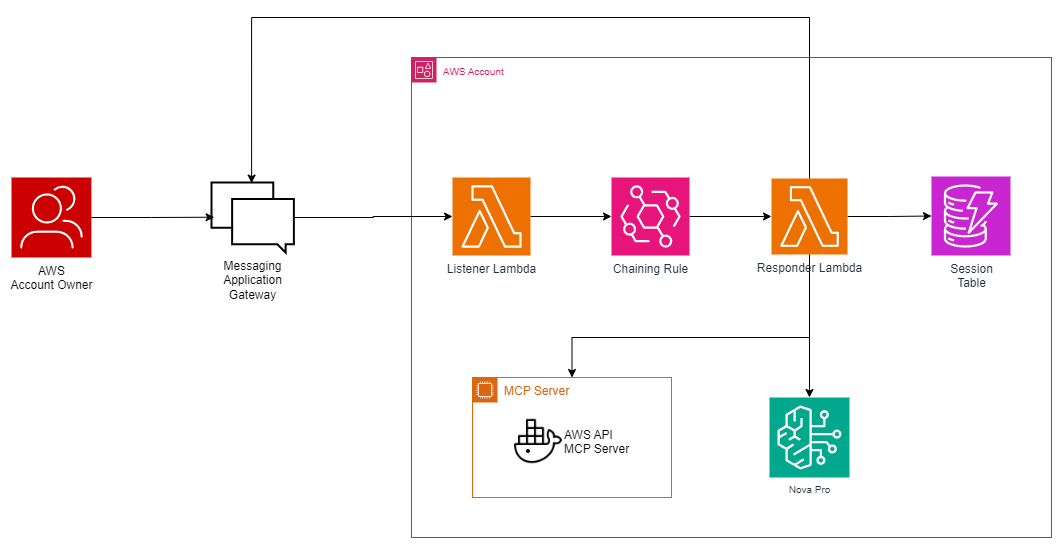
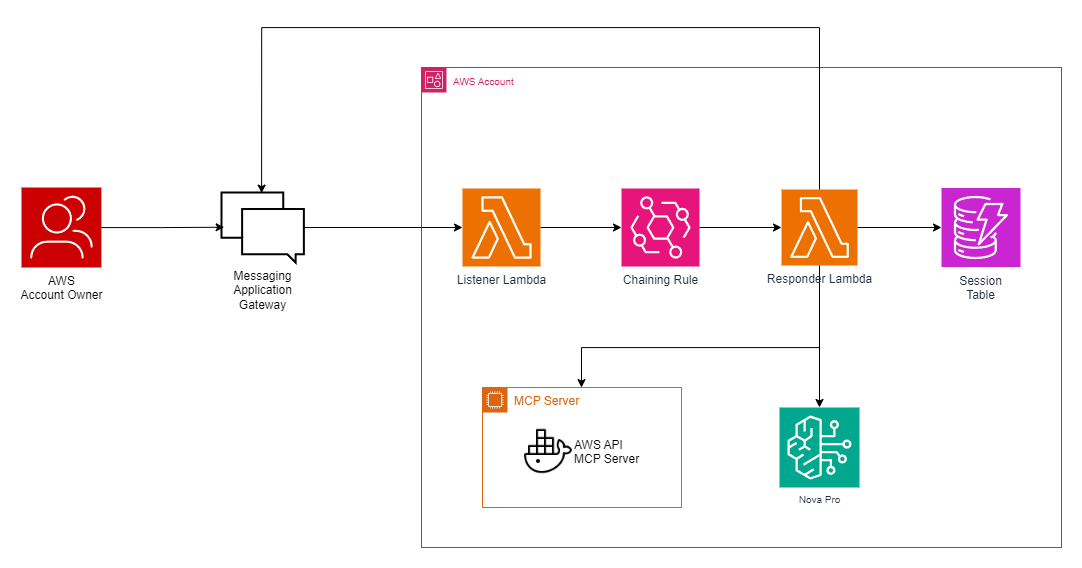
docs: Adjust diagram and minor formatting

diff --git a/README.md b/README.md
@@ -1,11 +1,11 @@
-# AWS API MCP Chat Integration
+# AWS API MCP Chatbot Integration
 
-This repository contains a reference implementation for bridging AWS API MCP Server with chat channels such as Telegram and WhatsApp. This is also the prototype that been used as demonstration in my session titled "Chatting with your AWS Infrastructure on-the-go: The Power of AWS API MCP Server" for AWS Community Day Indonesia 2025.
+This repository contains a reference implementation for bridging AWS API MCP Server with chat channels such as Telegram and WhatsApp. This is also the prototype that been used as demonstration in my session titled *"Chatting with your AWS Infrastructure on-the-go: The Power of AWS API MCP Server"* for AWS Community Day Indonesia 2025.
 
 ![Architecture Diagram](wiki-aws-api-mcp-chat-integration-diagram.png)
 
 **⚠ DISCLAIMER ⚠**<br>
-This solution means to demonstrate initial capabilities and **not intended for production workload**. Configurations such as permissive IAM policies, publicly accessible Lambda Function URLs, and simplified authentication mechanisms, are intentionally relaxed for demonstration purposes and **must be hardened before any production deployment**.
+This solution means to demonstrate initial capabilities and **not intended for production workload**. Configurations such as permissive IAM policies, publicly accessible endpoint, and simplified authentication mechanisms, are intentionally relaxed for demonstration purposes and **must be hardened before any production deployment**.
 
 Please also remember that **AI can make mistakes!** <br>
 
